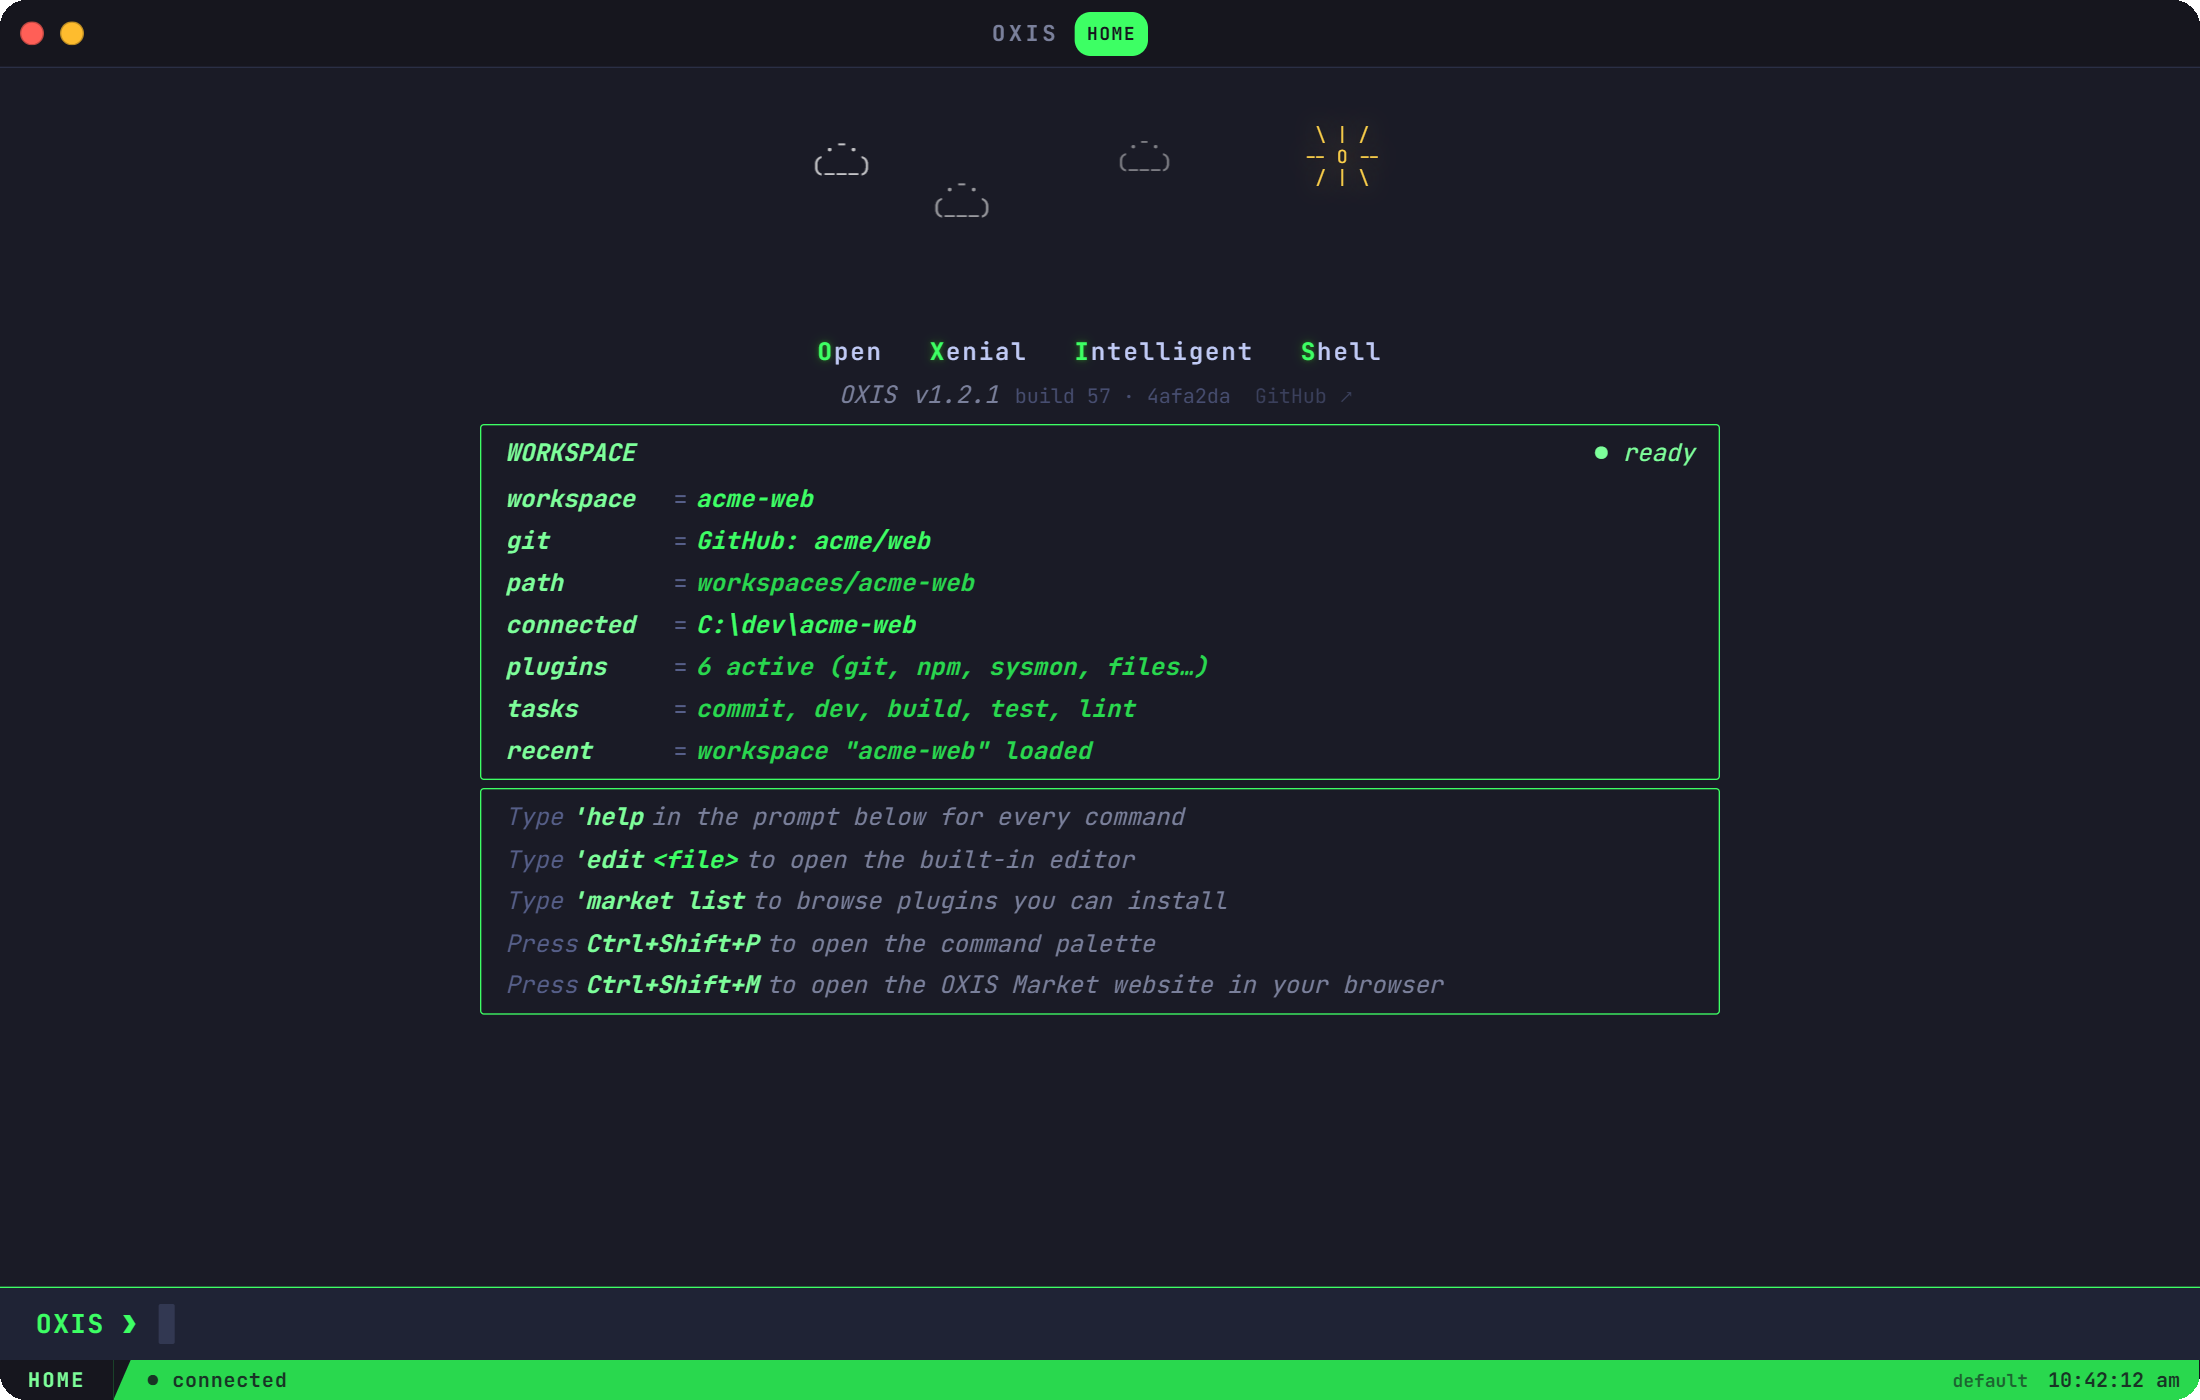
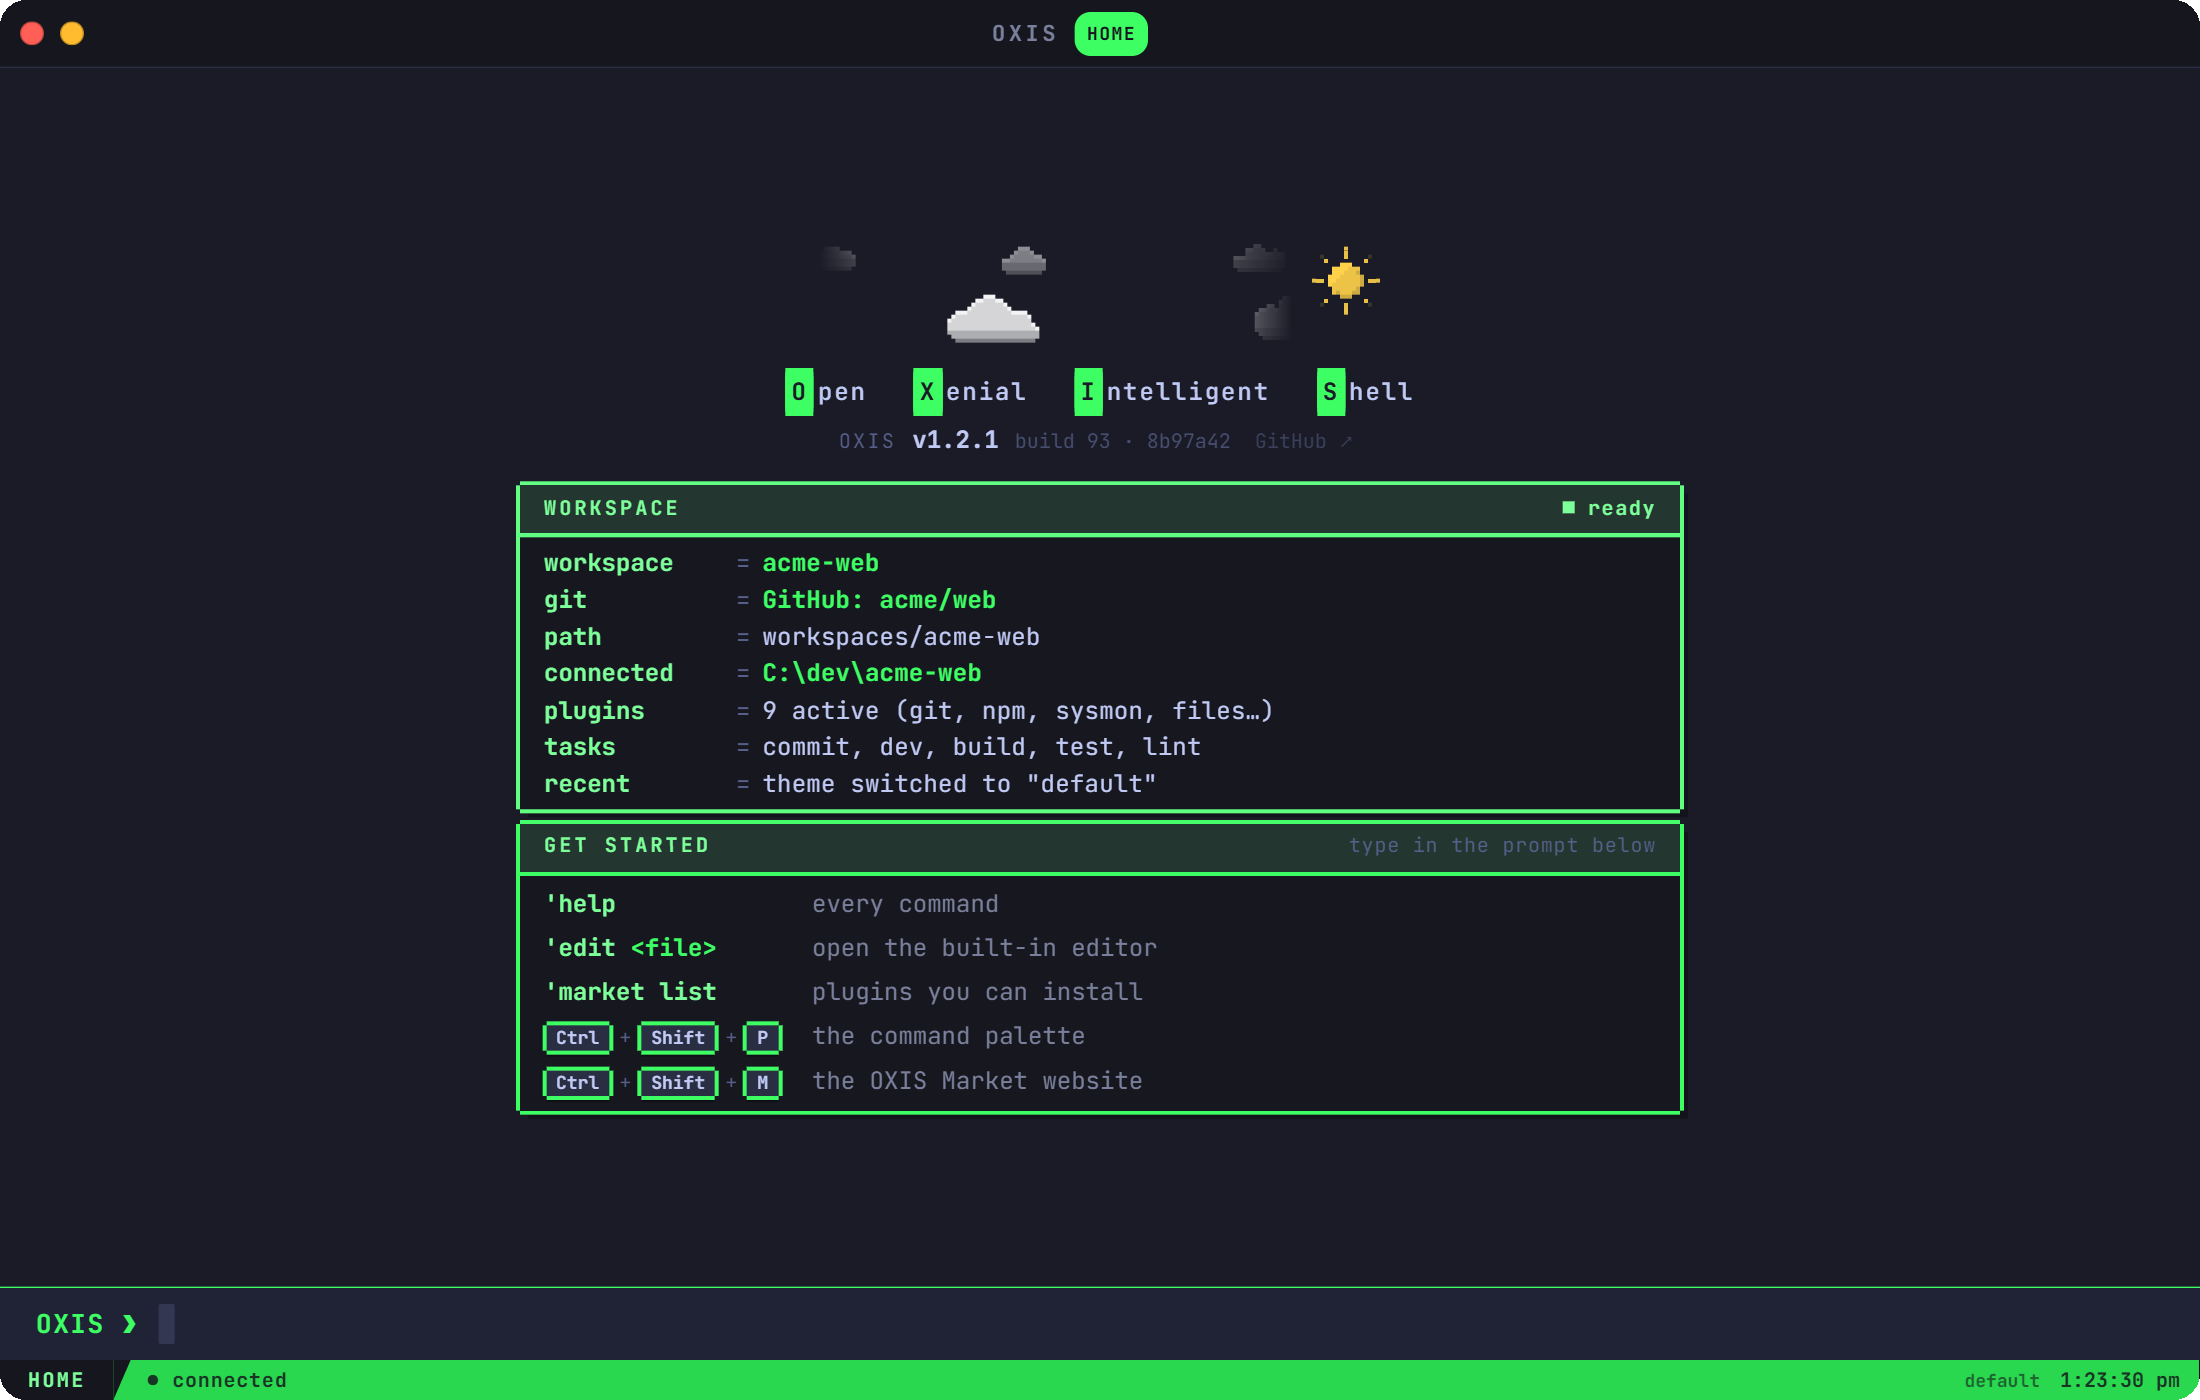
New demo and screenshots: Home, split panes, search in files

diff --git a/cloudflare/index.html b/cloudflare/index.html
@@ -651,7 +651,7 @@
       <div class="cell spot c3 cwide rv">
         <div class="ico"><svg viewBox="0 0 24 24" fill="none" stroke="currentColor" stroke-width="2" stroke-linecap="round" stroke-linejoin="round"><path d="m4 17 6-6-6-6M12 19h8"/></svg></div>
         <h3>Your shell, unchanged</h3>
-        <p>OXIS starts a real shell in a real pseudo-terminal: PowerShell 7 or Windows PowerShell on Windows, your <code>$SHELL</code> on Linux. Anything that doesn't start with <code>'</code> goes straight to it — in full colour (16, 256 and 24-bit), with prompts, REPLs and interactive tools included.</p>
+        <p>OXIS starts a real shell in a real pseudo-terminal: PowerShell 7 or Windows PowerShell on Windows, your <code>$SHELL</code> on Linux. Anything that doesn't start with <code>'</code> goes straight to it — in full colour (16, 256 and 24-bit), with prompts, REPLs and interactive tools included. Tabs and split panes put a dev server beside the shell you're working in, and your tabs, their directories and output come back after a restart.</p>
         <div class="shells"><span>pwsh 7</span><span>Windows PowerShell</span><span>bash</span><span>zsh</span><span>fish</span><span>OXIS_SHELL=…</span></div>
       </div>
       <div class="cell spot c3 cwide rv" style="--d:.08s">
@@ -1288,8 +1288,10 @@ $('#codeCopy').addEventListener('click', async e => {
 });
 
 const SHOTS = [
-  ['demo', 'Recorded', 'Recorded from the app, not mocked up: git, the tests, the editor catching a mistake as it is typed and suggesting a name, a plugin from the Market and a theme switch.', 41200],
-  ['app-home', 'Home', 'Home: the active workspace, its git remote, plugins and tasks at a glance.'],
+  ['demo', 'Recorded', 'Recorded from the app, not mocked up: Home, git, the editor catching a mistake as it is typed and suggesting a name, the tests in a split pane, a plugin from the Market and a theme switch.', 44100],
+  ['app-home', 'Home', 'Home: the active workspace, its git remote, plugins and tasks at a glance, under a pixel-art sky.'],
+  ['app-panes', 'Split panes', 'Tabs and split panes: git on the left, the tests on the right, each its own shell.'],
+  ['app-search', 'Search', 'Search in files (Ctrl+Shift+F): every match in the project, grouped by file.'],
   ['app-terminal', 'Terminal', 'Your real shell in full colour, with OXIS commands mixed in and one prompt at the bottom.'],
   ['app-editor', 'Editor', 'The built-in editor: a mistake caught as you type, suggestions, a minimap, and Vim-style modes.'],
   ['app-palette', 'Palette', 'Ctrl+Shift+P: every command, shortcut and task, searchable.'],

diff --git a/README.md b/README.md
@@ -26,7 +26,7 @@
 
 <br><br>
 
-<img src="assets/demo.gif" width="100%" alt="A real OXIS session: git log and status, 'task test running the project's tests, the editor catching a missing bracket as it's typed and suggesting a function name, installing a plugin from the Market and switching to the ember theme">
+<img src="assets/demo.gif" width="100%" alt="A real OXIS session: Home, git log and status, the editor catching a missing bracket as it's typed and suggesting a function name, the project's tests in a split pane, installing a plugin from the Market and switching to the ember theme">
 
 <sub>▲ Recorded from the app itself: every frame is OXIS running those commands in a real project.</sub>
 
@@ -127,8 +127,12 @@ itself into your editor as it's written. See the [Lua API](#lua-api).
 |---|---|
 | <img src="assets/screenshots/app-terminal.png" alt="The terminal in colour: git log, git status, git diff and a passing test run"> | <img src="assets/screenshots/app-editor.png" alt="The built-in editor catching a syntax error as you type, with word suggestions open and a minimap"> |
 | Your shell in full colour, with `'` commands and one prompt | The editor catches a mistake as you type and suggests words (`'edit src/cart.ts`) |
-| <img src="assets/screenshots/app-palette.png" alt="The command palette over the terminal"> | <img src="assets/screenshots/app-version.png" alt="'version showing the build number, commit, tag, channel and update status"> |
-| The command palette (Ctrl+Shift+P) | `'version` — the exact build you're running |
+| <img src="assets/screenshots/app-panes.png" alt="Two tabs, the first split into two panes: git log and status on the left, the project's tests passing on the right"> | <img src="assets/screenshots/app-search.png" alt="Search in files over the editor: five matches for subtotal in two files, each highlighted"> |
+| Tabs and split panes, each its own shell | Search in files (Ctrl+Shift+F) |
+| <img src="assets/screenshots/app-home.png" alt="Home: a pixel-art sun and clouds over the workspace panel and the get-started list"> | <img src="assets/screenshots/app-palette.png" alt="The command palette over the terminal"> |
+| Home, under a pixel-art sky that follows the time of day | The command palette (Ctrl+Shift+P) |
+| <img src="assets/screenshots/app-version.png" alt="'version showing the build number, commit, tag, channel and update status"> | |
+| `'version` — the exact build you're running | |
 | <img src="assets/screenshots/app-theme-custom.png" alt="midnight with a gradient background, glow and a custom prompt"> | <img src="assets/screenshots/app-theme-editor.png" alt="The theme editor"> |
 | A theme tweaked with four `'theme set` lines | `'theme edit` — every option with a live preview |
 | <img src="assets/screenshots/app-autotest.png" alt="The autotest plugin re-running a project's tests on save: passing, then failing with the test name and actual versus expected values, then passing again"> | <img src="assets/screenshots/app-image-viewer.png" alt="The editor's image viewer showing a PNG with its size, type, file size and zoom controls"> |
